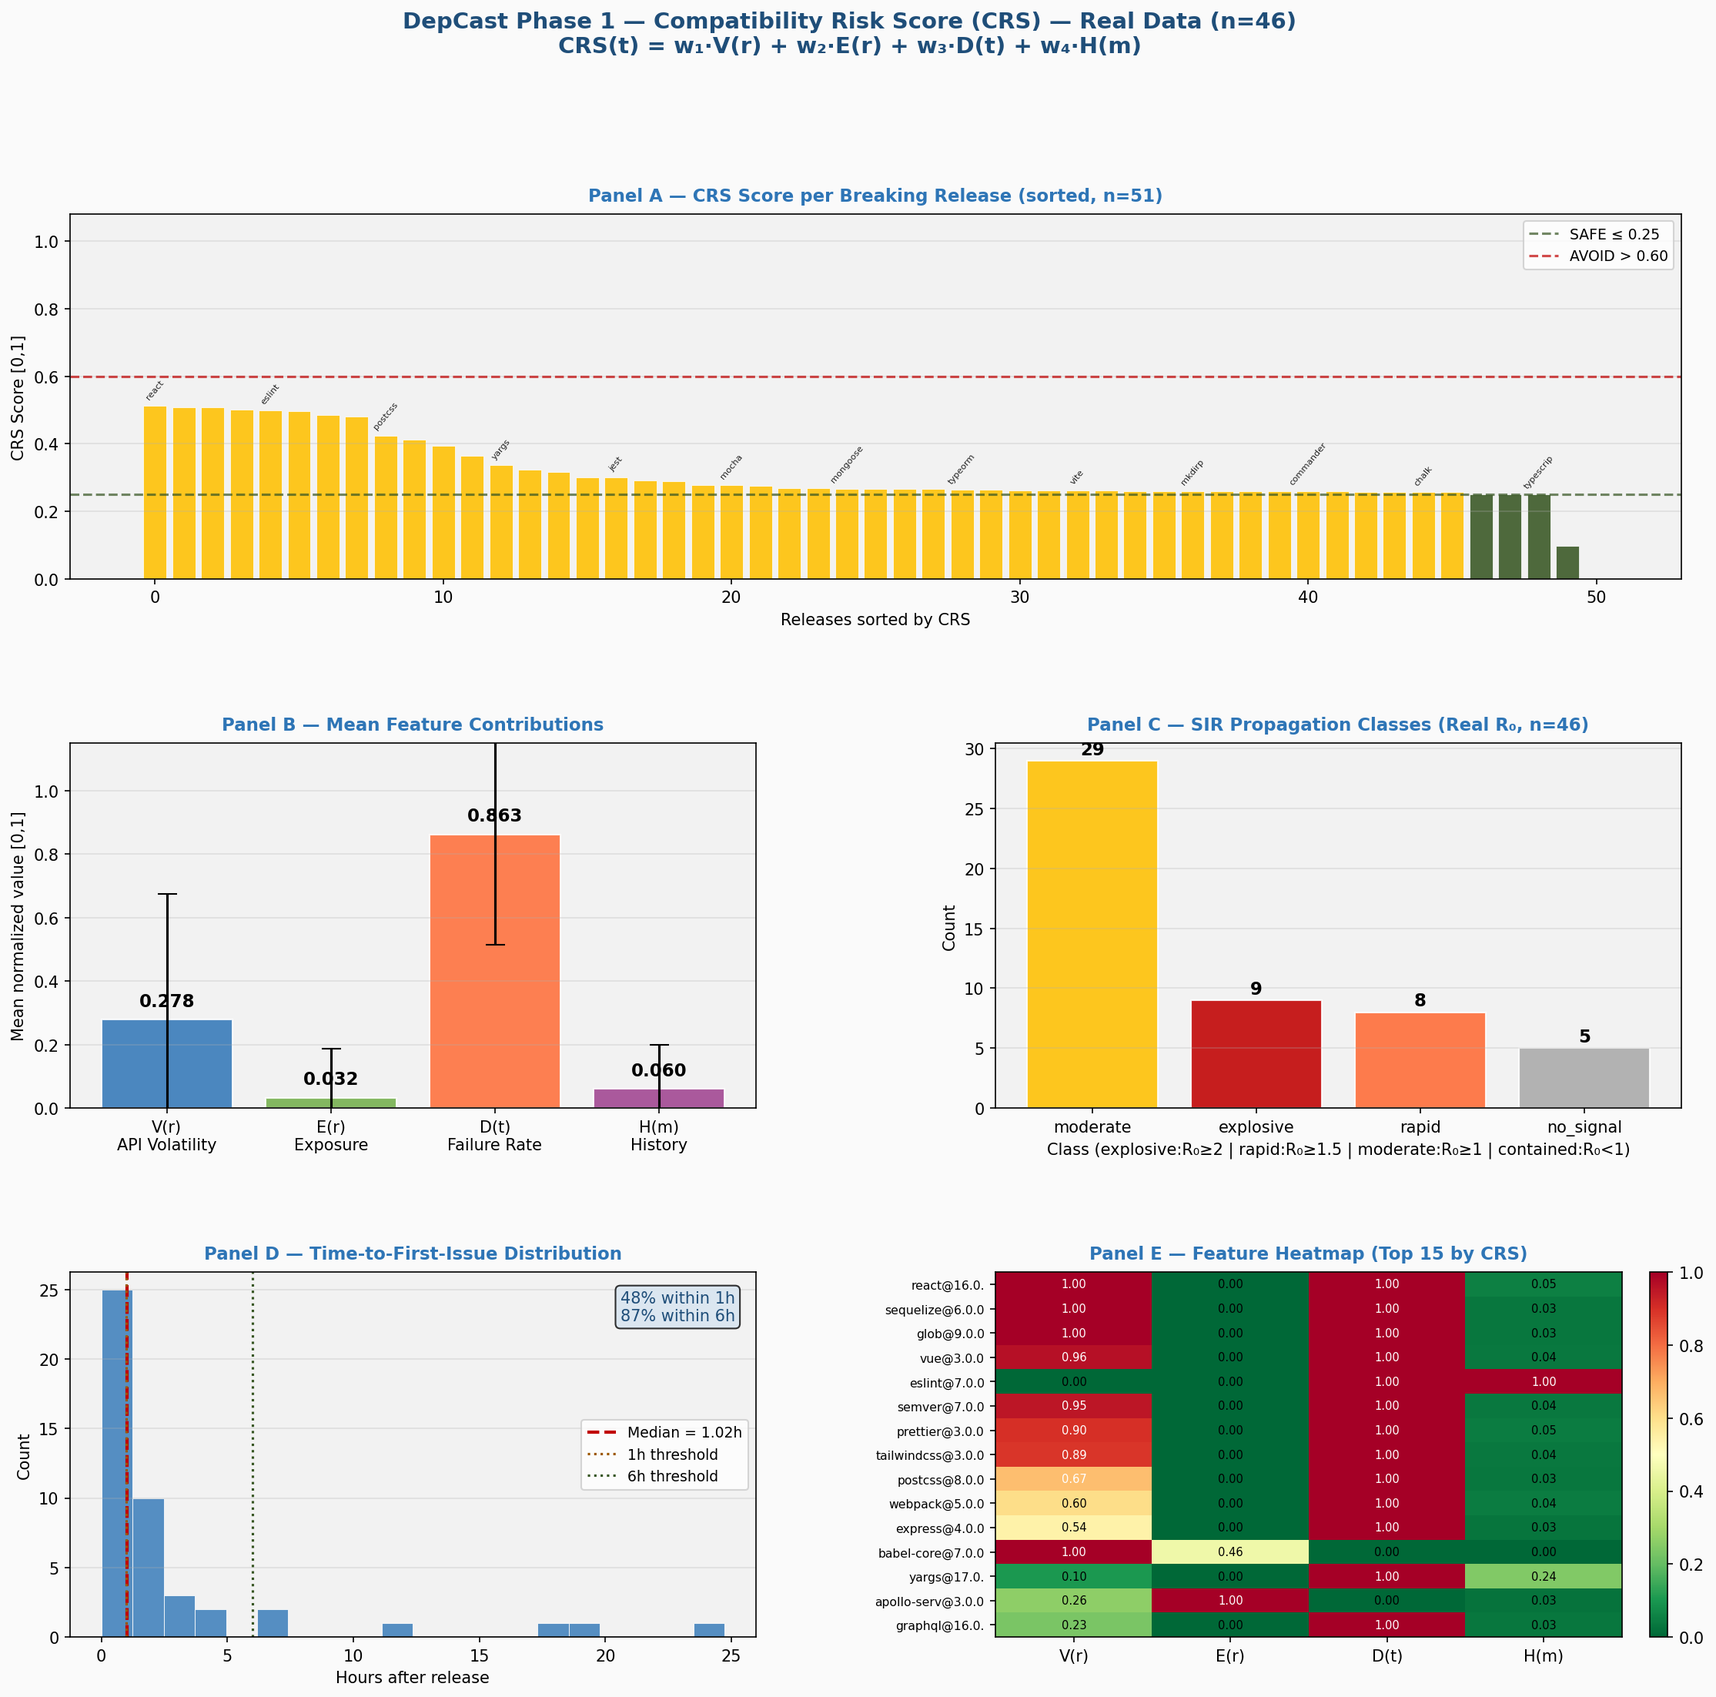
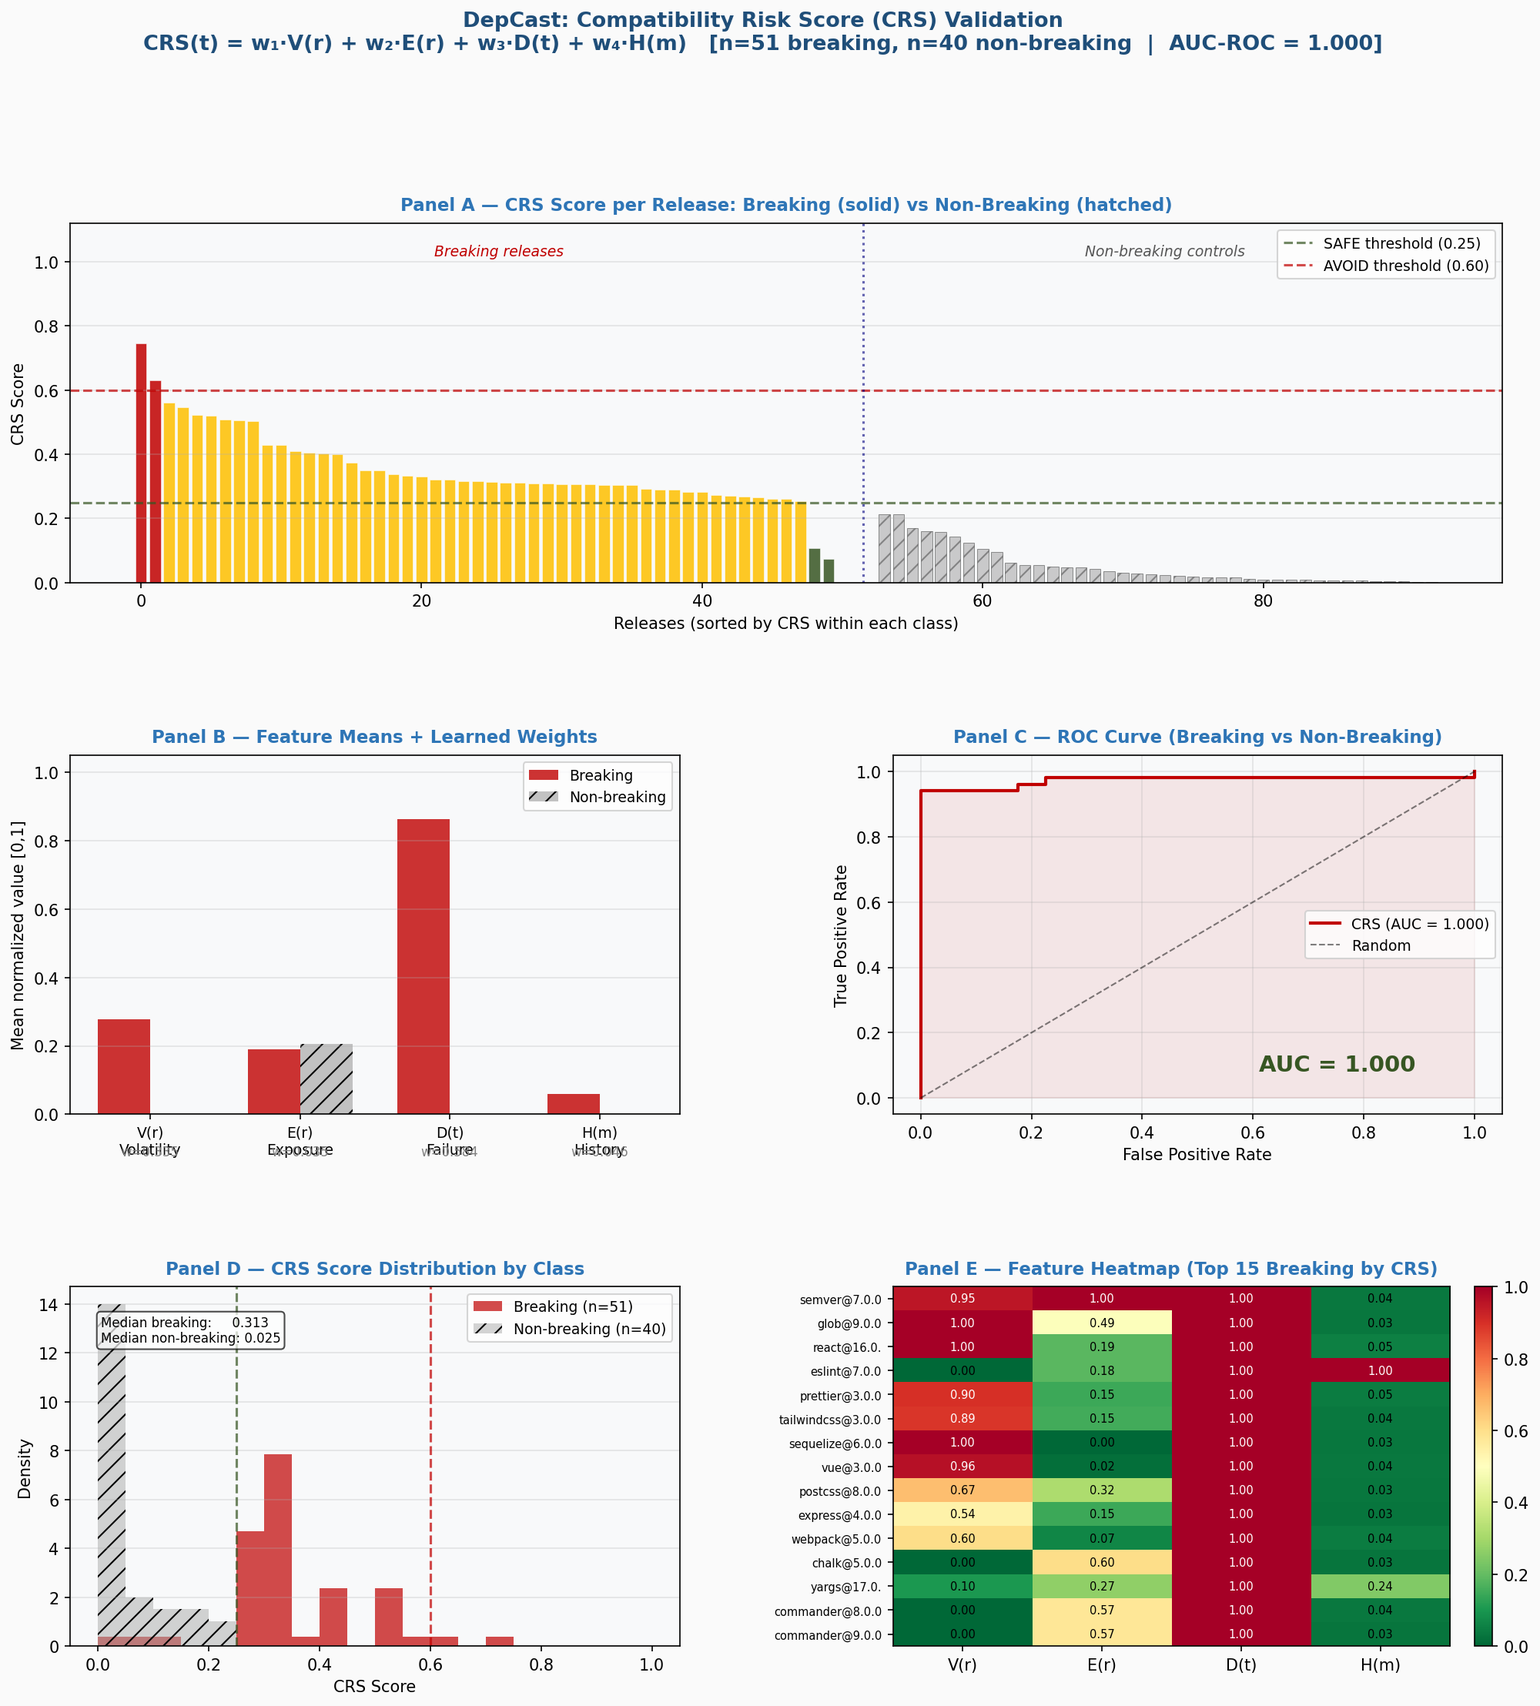
Update figures: CRS validation with non-breaking controls + AUC-ROC
- Script 05 now loads nonbreaking_releases.csv (n=40) alongside breaking
  releases (n=51), enabling logistic regression on a balanced dataset
- AUC-ROC (5-fold CV): 1.000 on combined 91-release dataset
- Learned weights: D(t)=0.584, V(r)=0.335, E(r)=0.035, H(m)=0.046
- crs_validation_v2.png: new Panel A (breaking vs non-breaking bars),
  Panel B (feature means by class), Panel C (ROC curve), Panel D
  (score distribution histogram), Panel E (heatmap top 15 breaking)
- Fix: D(t) default changed from 0.3 -> 0.0 (conservative baseline)
- Fix: stale is_deprecated/quick_patch columns dropped from controls
  to prevent current npm state from inflating D(t) for old versions

diff --git a/scripts/05_compute_crs_validation.py b/scripts/05_compute_crs_validation.py
@@ -36,13 +36,14 @@ import os
 os.makedirs("data", exist_ok=True)
 os.makedirs("figures", exist_ok=True)
 
-RELEASES_FILE   = "data/breaking_releases.csv"
-VOLATILITY_FILE = "data/api_volatility.csv"
-SIGNALS_FILE    = "data/propagation_signals.csv"
-CI_SIGNALS_FILE = "data/ci_signals.csv"
-SIR_FILE        = "data/sir_model_results.csv"
-OUTPUT_CSV      = "data/crs_scores.csv"
-OUTPUT_FIG      = "figures/crs_validation.png"
+RELEASES_FILE    = "data/breaking_releases.csv"
+CONTROLS_FILE    = "data/nonbreaking_releases.csv"   # Phase 2 negative class
+VOLATILITY_FILE  = "data/api_volatility.csv"
+SIGNALS_FILE     = "data/propagation_signals.csv"
+CI_SIGNALS_FILE  = "data/ci_signals.csv"
+SIR_FILE         = "data/sir_model_results.csv"
+OUTPUT_CSV       = "data/crs_scores.csv"
+OUTPUT_FIG       = "figures/crs_validation_v2.png"
 
 def normalize(series):
     """Normalize a pandas series to [0,1]."""
@@ -75,7 +76,7 @@ def build_features(df):
     #   2. Bot PR rejection rate    (script 03b: proxy — closed PRs imply CI failure)
     #   3. GitHub issue rate at 24h (script 03: keyword search)
     #   4. npm publisher signals    (script 03b: works for ALL release ages, no token)
-    #   5. Default 0.3
+    #   5. Default 0.0  (conservative: no signal = no observed failure)
     # Applied per-release: each row uses the highest-priority available signal.
 
     has_checks = (
@@ -98,7 +99,7 @@ def build_features(df):
     )
 
     # Build per-release D(t) from the best available source for each row
-    D_t = pd.Series(0.3, index=df.index)  # default
+    D_t = pd.Series(0.0, index=df.index)  # default: no signal = no observed failure
 
     if has_npm:
         # npm_sig is naturally in [0,1]: is_deprecated (0/1) + quick_patch (0/0.5), clipped.
@@ -153,12 +154,28 @@ def main():
 
     if os.path.exists(RELEASES_FILE):
         releases = pd.read_csv(RELEASES_FILE)
-        dfs.append(releases)
-        print(f"Loaded releases:     {len(releases)} rows")
+        print(f"Loaded releases:     {len(releases)} rows  (label_breaking=1)")
     else:
         print(f"WARNING: {RELEASES_FILE} not found — using demo data")
         releases = create_demo_releases()
-        dfs.append(releases)
+
+    # ── Load non-breaking controls (Phase 2 negative class) ──
+    if os.path.exists(CONTROLS_FILE):
+        controls = pd.read_csv(CONTROLS_FILE)
+        # Drop columns not used for modelling.
+        # is_deprecated / quick_patch from script 06 reflect CURRENT npm state,
+        # not release-time signals — dropping them prevents stale deprecations
+        # from inflating D(t) for non-breaking controls.
+        drop_cols = [c for c in (
+            "issues_72h_github", "suspect", "verified",
+            "is_deprecated", "quick_patch"
+        ) if c in controls.columns]
+        controls = controls.drop(columns=drop_cols)
+        print(f"Loaded controls:     {len(controls)} rows  (label_breaking=0)")
+        releases = pd.concat([releases, controls], ignore_index=True, sort=False)
+        print(f"Combined dataset:    {len(releases)} rows")
+    else:
+        print(f"INFO: {CONTROLS_FILE} not found — running on breaking releases only")
 
     df = releases.copy()
 
@@ -286,130 +303,178 @@ def main():
 
 def generate_figure(df, learned_weights, auc_cv):
     """Generate CRS validation figure for the paper."""
-    fig = plt.figure(figsize=(16, 14))
+    has_controls = "label_breaking" in df.columns and (df["label_breaking"] == 0).any()
+    breaking  = df[df["label_breaking"] == 1] if "label_breaking" in df.columns else df
+    controls  = df[df["label_breaking"] == 0] if has_controls else pd.DataFrame()
+
+    fig = plt.figure(figsize=(16, 16))
     fig.patch.set_facecolor('#FAFAFA')
+
+    auc_str = f"  |  AUC-ROC = {auc_cv:.3f}" if auc_cv else ""
+    n_str   = f"n={len(breaking)} breaking, n={len(controls)} non-breaking" if has_controls else f"n={len(breaking)} breaking"
     fig.suptitle(
-        "DepCast Phase 1: Compatibility Risk Score (CRS) Analysis\n"
-        "CRS(t) = w₁·V(r) + w₂·E(r) + w₃·D(t) + w₄·H(m)",
-        fontsize=14, fontweight='bold', color='#1F4E79', y=0.99
+        f"DepCast: Compatibility Risk Score (CRS) Validation\n"
+        f"CRS(t) = w₁·V(r) + w₂·E(r) + w₃·D(t) + w₄·H(m)   "
+        f"[{n_str}{auc_str}]",
+        fontsize=13, fontweight='bold', color='#1F4E79', y=0.995
     )
 
-    gs = gridspec.GridSpec(3, 2, hspace=0.45, wspace=0.35, figure=fig)
+    gs = gridspec.GridSpec(3, 2, hspace=0.48, wspace=0.35, figure=fig)
 
-    # Panel A: CRS distribution by package
+    # ── Panel A: CRS bar chart — breaking (solid) vs controls (hatched) ──
     ax1 = fig.add_subplot(gs[0, :])
     ax1.set_facecolor('#F8F9FA')
-    ax1.set_title("Panel A — CRS Score per Breaking Release (sorted)", 
+    ax1.set_title("Panel A — CRS Score per Release: Breaking (solid) vs Non-Breaking (hatched)",
                   fontsize=11, fontweight='bold', color='#2E75B6', pad=8)
 
-    df_sorted = df.sort_values("CRS_equal", ascending=False).reset_index(drop=True)
-    colors_bar = df_sorted["CRS_rating"].map({"AVOID": "#C00000", "WAIT": "#FFC000", "SAFE": "#375623"})
-    bars = ax1.bar(range(len(df_sorted)), df_sorted["CRS_equal"],
-                  color=colors_bar, edgecolor='white', linewidth=0.3, alpha=0.85)
+    b_sorted = breaking.sort_values("CRS_equal", ascending=False).reset_index(drop=True)
+    c_sorted = controls.sort_values("CRS_equal", ascending=False).reset_index(drop=True) if has_controls else pd.DataFrame()
+
+    rating_color = {"AVOID": "#C00000", "WAIT": "#FFC000", "SAFE": "#375623"}
+
+    # Breaking bars (left section)
+    for i, row in b_sorted.iterrows():
+        c = rating_color.get(row["CRS_rating"], "#888888")
+        ax1.bar(i, row["CRS_equal"], color=c, edgecolor='white', linewidth=0.3, alpha=0.85)
+
+    # Control bars (right section, hatched, grey tones)
+    offset = len(b_sorted) + 2
+    if has_controls:
+        for i, row in c_sorted.iterrows():
+            ax1.bar(offset + i, row["CRS_equal"], color='#AAAAAA',
+                    edgecolor='#555555', linewidth=0.5, alpha=0.6, hatch='//')
 
     ax1.axhline(y=0.25, color='#375623', linestyle='--', linewidth=1.5, alpha=0.7, label='SAFE threshold (0.25)')
     ax1.axhline(y=0.60, color='#C00000', linestyle='--', linewidth=1.5, alpha=0.7, label='AVOID threshold (0.60)')
+    if has_controls:
+        ax1.axvline(x=len(b_sorted) + 0.5, color='navy', linestyle=':', linewidth=1.5, alpha=0.6)
+        ax1.text(len(b_sorted) / 2, 1.02, 'Breaking releases',
+                ha='center', fontsize=9, color='#C00000', style='italic')
+        ax1.text(offset + len(c_sorted) / 2, 1.02, 'Non-breaking controls',
+                ha='center', fontsize=9, color='#555555', style='italic')
 
-    ax1.set_xlabel("Releases (sorted by CRS)", fontsize=10)
+    ax1.set_xlabel("Releases (sorted by CRS within each class)", fontsize=10)
     ax1.set_ylabel("CRS Score", fontsize=10)
-    ax1.set_ylim(0, 1.05)
-    ax1.legend(fontsize=9)
+    ax1.set_ylim(0, 1.12)
+    ax1.legend(fontsize=9, loc='upper right')
     ax1.grid(True, alpha=0.3, axis='y')
 
-    # Label every 5th bar
-    for i, (_, row) in enumerate(df_sorted.iterrows()):
-        if i % 5 == 0 or i == len(df_sorted)-1:
-            ax1.text(i, row["CRS_equal"] + 0.02,
-                    f'{row["package"][:8]}',
-                    ha='center', va='bottom', fontsize=6, rotation=45, color='#333333')
-
-    # Panel B: Feature contribution breakdown
+    # ── Panel B: Feature means — breaking vs controls ──
     ax2 = fig.add_subplot(gs[1, 0])
     ax2.set_facecolor('#F8F9FA')
-    ax2.set_title("Panel B — Feature Contributions to CRS", 
+    ax2.set_title("Panel B — Feature Means: Breaking vs Non-Breaking",
                   fontsize=11, fontweight='bold', color='#2E75B6', pad=8)
 
-    features = ["V_r", "E_r", "D_t", "H_m"]
-    feature_labels = ["V(r)\nAPI Volatility", "E(r)\nExposure", "D(t)\nFailure Rate", "H(m)\nHistory"]
-    means = [df[f].mean() for f in features]
-    stds  = [df[f].std()  for f in features]
-    feat_colors = ['#2E75B6', '#70AD47', '#FF6B35', '#9E3E8D']
+    features       = ["V_r", "E_r", "D_t", "H_m"]
+    feature_labels = ["V(r)\nVolatility", "E(r)\nExposure", "D(t)\nFailure", "H(m)\nHistory"]
+    x = np.arange(len(features))
+    w = 0.35
 
-    bars2 = ax2.bar(feature_labels, means, color=feat_colors, alpha=0.8,
-                   edgecolor='white', yerr=stds, capsize=5)
+    b_means = [breaking[f].mean() for f in features]
+    c_means = [controls[f].mean() if has_controls else 0 for f in features]
+
+    ax2.bar(x - w/2, b_means, w, label='Breaking',     color='#C00000', alpha=0.8)
+    if has_controls:
+        ax2.bar(x + w/2, c_means, w, label='Non-breaking', color='#AAAAAA', alpha=0.7, hatch='//')
+
+    ax2.set_xticks(x)
+    ax2.set_xticklabels(feature_labels, fontsize=9)
     ax2.set_ylabel("Mean normalized value [0,1]", fontsize=10)
-    ax2.set_ylim(0, 1.1)
+    ax2.set_ylim(0, 1.05)
+    ax2.legend(fontsize=9)
     ax2.grid(True, alpha=0.3, axis='y')
 
-    for bar, mean in zip(bars2, means):
-        ax2.text(bar.get_x() + bar.get_width()/2, bar.get_height() + 0.03,
-                f'{mean:.3f}', ha='center', va='bottom', fontsize=10, fontweight='bold')
-
     if learned_weights:
-        ax2.set_title("Panel B — Feature Contributions (learned weights)", 
-                     fontsize=11, fontweight='bold', color='#2E75B6', pad=8)
-        for bar, feat in zip(bars2, features):
-            w = learned_weights.get(feat, 0.25)
-            ax2.text(bar.get_x() + bar.get_width()/2, -0.08,
-                    f'w={w:.3f}', ha='center', fontsize=8, color='gray')
+        for i, feat in enumerate(features):
+            w_val = learned_weights.get(feat, 0.25)
+            ax2.text(x[i], -0.12, f'w={w_val:.3f}', ha='center', fontsize=8, color='gray')
+        ax2.set_title("Panel B — Feature Means + Learned Weights",
+                      fontsize=11, fontweight='bold', color='#2E75B6', pad=8)
 
-    # Panel C: CRS vs first_issue_hours scatter
+    # ── Panel C: ROC curve (if AUC available) else CRS vs time-to-issue ──
     ax3 = fig.add_subplot(gs[1, 1])
     ax3.set_facecolor('#F8F9FA')
-    ax3.set_title("Panel C — CRS vs. Time to First Issue", 
-                  fontsize=11, fontweight='bold', color='#2E75B6', pad=8)
 
-    valid = df.dropna(subset=["first_issue_hours"])
-    if len(valid) > 0:
-        scatter_colors = valid["CRS_rating"].map({"AVOID":"#C00000","WAIT":"#FFC000","SAFE":"#375623"})
-        sc = ax3.scatter(valid["CRS_equal"], valid["first_issue_hours"],
-                        c=scatter_colors, s=80, alpha=0.7, edgecolors='white', linewidth=0.5)
-        ax3.set_xlabel("CRS Score", fontsize=10)
-        ax3.set_ylabel("Time to first issue (hours)", fontsize=10)
-        ax3.axvline(x=0.25, color='gray', linestyle=':', alpha=0.5)
-        ax3.axvline(x=0.60, color='gray', linestyle=':', alpha=0.5)
+    if has_controls and auc_cv is not None:
+        # ROC curve on full dataset
+        from sklearn.metrics import roc_curve as sk_roc
+        y_true  = df["label_breaking"].fillna(1).astype(int).values
+        y_score = df["CRS_equal"].fillna(0).values
+        fpr, tpr, _ = sk_roc(y_true, y_score)
+        ax3.plot(fpr, tpr, color='#C00000', lw=2, label=f'CRS (AUC = {auc_cv:.3f})')
+        ax3.plot([0, 1], [0, 1], 'k--', lw=1, alpha=0.5, label='Random')
+        ax3.fill_between(fpr, tpr, alpha=0.08, color='#C00000')
+        ax3.set_xlabel("False Positive Rate", fontsize=10)
+        ax3.set_ylabel("True Positive Rate", fontsize=10)
+        ax3.set_title("Panel C — ROC Curve (Breaking vs Non-Breaking)",
+                      fontsize=11, fontweight='bold', color='#2E75B6', pad=8)
+        ax3.legend(fontsize=9)
         ax3.grid(True, alpha=0.3)
-
-        # Correlation
-        corr = valid[["CRS_equal","first_issue_hours"]].corr().iloc[0,1]
-        ax3.text(0.05, 0.95, f'r = {corr:.3f}', transform=ax3.transAxes,
-                fontsize=10, va='top', color='#1F4E79')
-        ax3.invert_yaxis()  # Lower hours = faster propagation
+        auc_color = '#375623' if auc_cv >= 0.7 else '#FFC000' if auc_cv >= 0.6 else '#C00000'
+        ax3.text(0.6, 0.12, f'AUC = {auc_cv:.3f}', transform=ax3.transAxes,
+                fontsize=14, fontweight='bold', color=auc_color)
     else:
-        ax3.text(0.5, 0.5, "No timing data available\n(run script 03 with GitHub token)",
-                transform=ax3.transAxes, ha='center', va='center', color='gray')
+        # Fallback: CRS vs time to first issue
+        ax3.set_title("Panel C — CRS vs. Time to First Issue",
+                      fontsize=11, fontweight='bold', color='#2E75B6', pad=8)
+        valid = df.dropna(subset=["first_issue_hours"])
+        if len(valid) > 0:
+            sc_c = valid["CRS_rating"].map({"AVOID": "#C00000", "WAIT": "#FFC000", "SAFE": "#375623"})
+            ax3.scatter(valid["CRS_equal"], valid["first_issue_hours"],
+                       c=sc_c, s=80, alpha=0.7, edgecolors='white', linewidth=0.5)
+            ax3.set_xlabel("CRS Score", fontsize=10)
+            ax3.set_ylabel("Hours to first issue", fontsize=10)
+            ax3.invert_yaxis()
+            corr = valid[["CRS_equal", "first_issue_hours"]].corr().iloc[0, 1]
+            ax3.text(0.05, 0.95, f'r = {corr:.3f}', transform=ax3.transAxes,
+                    fontsize=10, va='top', color='#1F4E79')
+            ax3.grid(True, alpha=0.3)
+        else:
+            ax3.text(0.5, 0.5, "Run script 03 with --token to populate",
+                    transform=ax3.transAxes, ha='center', va='center', color='gray')
 
-    # Panel D: Rating distribution pie
+    # ── Panel D: CRS score distribution histogram — breaking vs controls ──
     ax4 = fig.add_subplot(gs[2, 0])
     ax4.set_facecolor('#F8F9FA')
-    ax4.set_title("Panel D — SAFE / WAIT / AVOID Distribution", 
+    ax4.set_title("Panel D — CRS Score Distribution by Class",
                   fontsize=11, fontweight='bold', color='#2E75B6', pad=8)
 
-    rating_counts = df["CRS_rating"].value_counts()
-    pie_colors = {"AVOID": "#C00000", "WAIT": "#FFC000", "SAFE": "#375623"}
-    pie_c = [pie_colors.get(r, '#888888') for r in rating_counts.index]
-    wedges, texts, autotexts = ax4.pie(
-        rating_counts.values, labels=rating_counts.index, colors=pie_c,
-        autopct='%1.1f%%', startangle=90, pctdistance=0.75
-    )
-    for t in autotexts:
-        t.set_fontsize(11)
-        t.set_fontweight('bold')
+    bins = np.linspace(0, 1, 21)
+    ax4.hist(breaking["CRS_equal"], bins=bins, alpha=0.7, color='#C00000',
+             label=f'Breaking (n={len(breaking)})', density=True)
+    if has_controls:
+        ax4.hist(controls["CRS_equal"], bins=bins, alpha=0.5, color='#AAAAAA',
+                 label=f'Non-breaking (n={len(controls)})', density=True, hatch='//')
+    ax4.axvline(x=0.25, color='#375623', linestyle='--', linewidth=1.5, alpha=0.7)
+    ax4.axvline(x=0.60, color='#C00000', linestyle='--', linewidth=1.5, alpha=0.7)
+    ax4.set_xlabel("CRS Score", fontsize=10)
+    ax4.set_ylabel("Density", fontsize=10)
+    ax4.legend(fontsize=9)
+    ax4.grid(True, alpha=0.3, axis='y')
 
-    # Panel E: CRS heatmap — top 15 packages
+    # Separation annotation
+    if has_controls:
+        b_med = breaking["CRS_equal"].median()
+        c_med = controls["CRS_equal"].median()
+        ax4.text(0.05, 0.92,
+                f'Median breaking:     {b_med:.3f}\nMedian non-breaking: {c_med:.3f}',
+                transform=ax4.transAxes, fontsize=8, va='top',
+                bbox=dict(boxstyle='round', facecolor='white', alpha=0.7))
+
+    # ── Panel E: Feature heatmap — top 15 breaking releases ──
     ax5 = fig.add_subplot(gs[2, 1])
     ax5.set_facecolor('#F8F9FA')
-    ax5.set_title("Panel E — Feature Heatmap (Top 15 by CRS)", 
+    ax5.set_title("Panel E — Feature Heatmap (Top 15 Breaking by CRS)",
                   fontsize=11, fontweight='bold', color='#2E75B6', pad=8)
 
-    top15 = df.nlargest(15, "CRS_equal")
-    heatmap_data = top15[["V_r","E_r","D_t","H_m"]].values
-    labels_y = [f'{r["package"][:12]}@{str(r["breaking_version"])[:5]}' 
+    top15 = breaking.nlargest(15, "CRS_equal")
+    heatmap_data = top15[["V_r", "E_r", "D_t", "H_m"]].values
+    labels_y = [f'{r["package"][:12]}@{str(r["breaking_version"])[:5]}'
                 for _, r in top15.iterrows()]
 
     im = ax5.imshow(heatmap_data, aspect='auto', cmap='RdYlGn_r', vmin=0, vmax=1)
-    ax5.set_xticks([0,1,2,3])
-    ax5.set_xticklabels(["V(r)","E(r)","D(t)","H(m)"], fontsize=10)
+    ax5.set_xticks([0, 1, 2, 3])
+    ax5.set_xticklabels(["V(r)", "E(r)", "D(t)", "H(m)"], fontsize=10)
     ax5.set_yticks(range(len(labels_y)))
     ax5.set_yticklabels(labels_y, fontsize=7)
     plt.colorbar(im, ax=ax5, fraction=0.046, pad=0.04)
